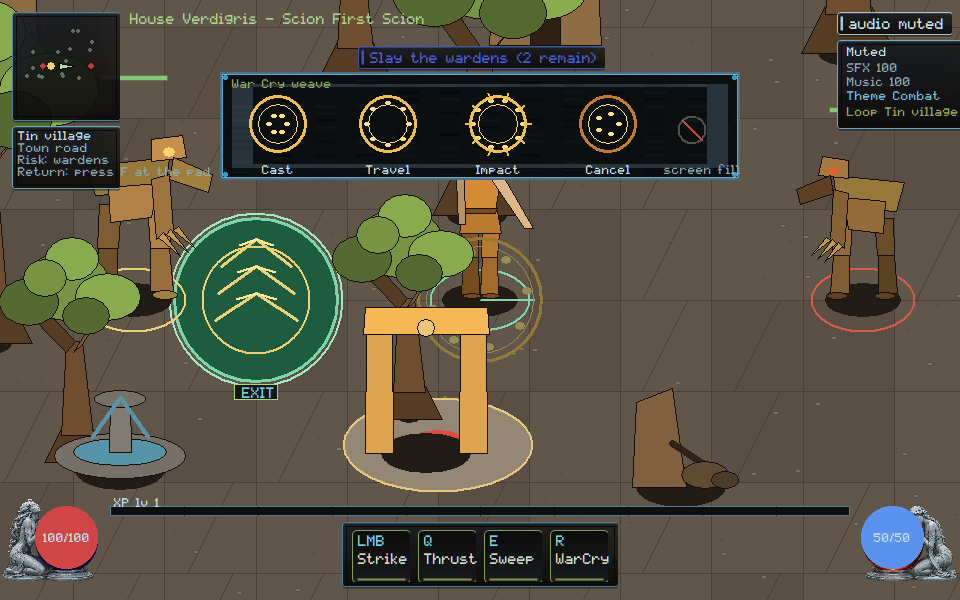
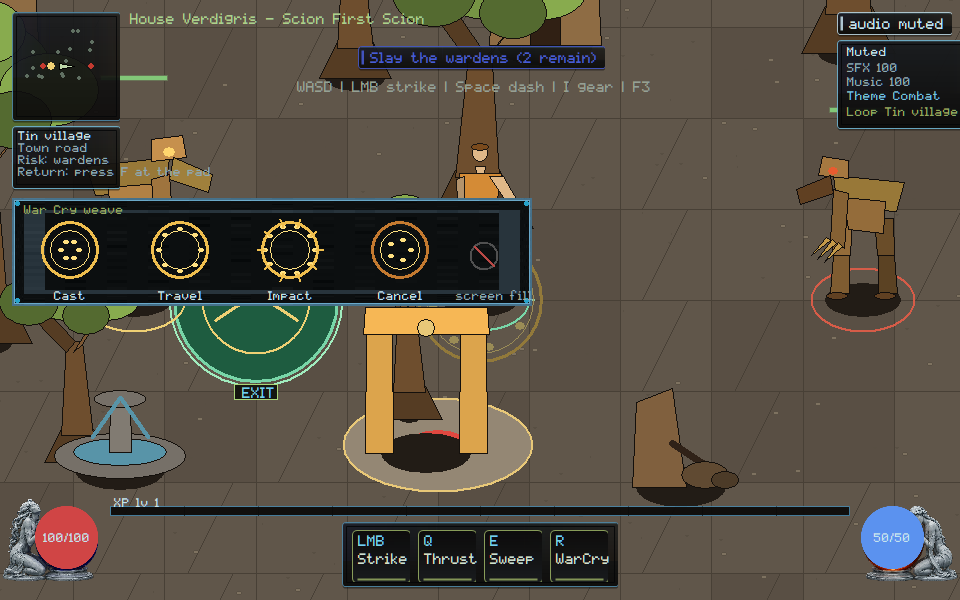
native: park War Cry weave off WASD and Tin village so covering combat HUD cannot certify

Changed region(s): [[0.2188, 0.12, 0.7812, 0.3], [0.0, 0.33, 0.5625, 0.51]]

diff --git a/native/client/main.cpp b/native/client/main.cpp
@@ -6355,14 +6355,21 @@ void paint_attack_pose_strip(ClientState& state, HDC dc, const RECT& bounds,
   SelectObject(dc, old_font);
 }
 
+HudRect park_review_strip(const ClientState& state, int width, int height,
+                          int pane_w, int pane_h);
+
 void paint_weave_review_strip(ClientState& state, HDC dc, const RECT& bounds,
                               render::List& rl) {
   if (!state.weave_review_strip) return;
   const int s = hud_scale(static_cast<int>(bounds.bottom));
   const int pane_w = 520 * s;
   const int pane_h = 108 * s;
-  const int left = (static_cast<int>(bounds.right) - pane_w) / 2;
-  const int top = 72 * s;
+  const HudRect parked =
+      park_review_strip(state, static_cast<int>(bounds.right),
+                        static_cast<int>(bounds.bottom), pane_w, pane_h);
+  const int left = parked.x;
+  const int top = parked.y;
+  state.hud_rect_trace.push_back({"weave-strip", parked});
   RECT pane{left, top, left + pane_w, top + pane_h};
   if (!draw_framekit_nine(state.billboards, dc, state.billboards.fk_panel, pane))
     skin::panel(dc, pane, skin::kVerdigris, 235, 8.0f);
@@ -13926,6 +13933,30 @@ int scenario_weave_vfx() {
                  "weave-vfx: live HUD names War Cry weave and Travel");
   scenario_check(has_hud("weave-strip:fill-rejected"),
                  "weave-vfx: live HUD rejects screen fill");
+  {
+    auto trace_find = [](const ClientState& s,
+                         const char* label) -> const HudRect* {
+      for (const auto& entry : s.hud_rect_trace)
+        if (entry.first == label) return &entry.second;
+      return nullptr;
+    };
+    const HudRect* strip = trace_find(state, "weave-strip");
+    const HudRect* ctrl = trace_find(state, "controls");
+    const HudRect* objective = trace_find(state, "objective");
+    const HudRect* route = trace_find(state, "route-card");
+    const HudRect* life = trace_find(state, "orb-life");
+    const bool covers =
+        (strip && ctrl && hud_rects_overlap(*strip, *ctrl)) ||
+        (strip && objective && hud_rects_overlap(*strip, *objective)) ||
+        (strip && route && hud_rects_overlap(*strip, *route)) ||
+        (strip && life && hud_rects_overlap(*strip, *life));
+    scenario_check(
+        vector_art::weave_strip_covers_hud_fails_review(true),
+        "weave-vfx: covering WASD, the objective, Tin village, or Life is the anti-pattern");
+    scenario_check(
+        !vector_art::weave_strip_covers_hud_fails_review(covers),
+        "weave-vfx: War Cry weave stays off WASD, the objective, Tin village, and Life");
+  }
   return scenario_failures;
 }
 

diff --git a/native/client/vector_art.hpp b/native/client/vector_art.hpp
@@ -229,6 +229,7 @@ inline bool blob_weave_fails_review(bool cast_motes, bool travel_orbit,
 }
 
 inline const char* owner_war_cry_weave_label() { return "War Cry weave"; }
+inline bool weave_strip_covers_hud_fails_review(bool overlap) { return overlap; }
 
 inline void humanoid(HDC dc, int cx, int base_y, int height_px,
                      const Style& style, const Pose& pose, Held held) {

diff --git a/docs/execution/CROSSWALK.md b/docs/execution/CROSSWALK.md
@@ -42,7 +42,7 @@ Cursor evidence notes.
 | VG-UI-007 | extend | TASK-0159 INTEGRATED, 0118 READY, 0207; `hud-pane-readability` at 960/1366/3440 + tree/character keep-out + `hud-scale-floor` + live window; TASK-0159 folder capture cannot certify; clipped C or Esc closes cannot certify; clipped I or Esc closes gear footer cannot certify; clipped DEF/LVL cannot certify; VG-UI-006 Owner Demo not duplicated |
 | VG-UI-008 | new | XInput tick path + glyphs (`pad-path`); not mouse emulation; Pad glyphs stays off WASD/objective/Tin village/Life |
 | VG-ART-001/002/004 | extend | TASK-0141 INTEGRATED — village kit + collision-proxy ops (`kit-chunk`); not artist-local collision; Adult camera / Jointed warden / Uniform pan / Kit lock / Village kit stay off WASD/objective/Tin village/Life |
-| VG-ART-003/006 | extend | TASK-0122 INTEGRATED; 0173/0174 READY; 0186/0187 BRIDGE_PREP — Cursor paints melee **poses** (VG-ART-003) and WarCry **weave labels** plus Phase A spawn/fade (VG-ART-006) without taking TASK-0173 models or re-speccing TASK-0108; Hit flash stays off WASD/objective/Tin village/Life |
+| VG-ART-003/006 | extend | TASK-0122 INTEGRATED; 0173/0174 READY; 0186/0187 BRIDGE_PREP — Cursor paints melee **poses** (VG-ART-003) and WarCry **weave labels** plus Phase A spawn/fade (VG-ART-006) without taking TASK-0173 models or re-speccing TASK-0108; Hit flash / War Cry weave stay off WASD/objective/Tin village/Life |
 | VG-ART-005 | extend | TASK-0182 AUTO_RELEASE, 0184; `held-item` world attachment + `loot-to-bank` pickup-to-equip hold; paper-doll seat alone cannot pass; World hold / Unarmed first stay off WASD, the objective, Tin village, and Life |
 | VG-ART-007/008 | extend | TASK-0206/0205/0207 — Owner Demo, do not duplicate |
 | VG-GPU-001 | new | isolated software quad (`gpu-sample`); not a D3D-only window |
@@ -153,8 +153,10 @@ the spawn capture. Scenario `kit-chunk`. Evidence
 `docs/execution/evidence/VG-ART-004.json`.
 VG-ART-006: WarCry family `vfx-weave:cast|travel|impact|cancel`; radius
 capped vs screen-fill; telegraph remains. Owner strip paints War Cry weave
-/ Travel. Screen fill cannot certify. Scenario `weave-vfx`. Phase A spawn
-beats: owner strip paints Spawn once / Fade ttl; re-spawn cannot certify.
+/ Travel and parks off WASD, the objective, Tin village, and Life.
+Covering those combat surfaces cannot certify. Screen fill cannot
+certify. Scenario `weave-vfx`. Phase A spawn beats: owner strip paints
+Spawn once / Fade ttl; re-spawn cannot certify.
 Scenario `animation-vfx-phase-a` pack capture in art-wave (TASK-0122 folder
 cannot certify). TASK-0173 models stay Kimi. Evidence
 `docs/execution/evidence/VG-ART-006.json`.

diff --git a/docs/execution/CROSSWALK_REGISTRY.md b/docs/execution/CROSSWALK_REGISTRY.md
@@ -132,7 +132,7 @@ not implemented here.
 | VG-ART-003 | G2 | extend | attack-poses; combat-juice Hit flash stays off WASD/objective/Tin village/Life; not TASK-0108 |
 | VG-ART-004 | G2 | extend | kit-chunk Village kit stays off WASD/objective/Tin village/Life; hut, ruin, fountain, gate in spawn capture |
 | VG-ART-005 | G3 | extend | held-item world attachment; loot-to-bank unarmed first; paper-doll seat alone cannot pass; World hold stays off WASD/objective/Tin village/Life |
-| VG-ART-006 | G3 | extend | weave-vfx; animation-vfx-phase-a spawn once; not TASK-0108 |
+| VG-ART-006 | G3 | extend | weave-vfx War Cry weave stays off WASD/objective/Tin village/Life; animation-vfx-phase-a spawn once; not TASK-0108 |
 | VG-ART-007 | G3 | extend | Owner Demo — do not duplicate |
 | VG-ART-008 | G3 | extend | Owner Demo — do not duplicate |
 | VG-UI-001 | G1 | extend | pane-stack native Escape; Stack 2 stays between the two panes; covering either pane cannot certify; absent tree hides seats; invented origin cannot prove; WASD keep-out for tree and character; close hint stays in the sheet slot |

diff --git a/orchestration/CURSOR_KIMI_LANES.md b/orchestration/CURSOR_KIMI_LANES.md
@@ -1175,3 +1175,16 @@ Please move off that branch before taking a new native path.
   remain yours. GOV-002 still unstamped.
   Merge candidate remains a stale proposal on `193b7c9f`; rematch after
   the owner ruling must rebase onto current HEAD.
+
+## Cursor reply (2026-09-06, War Cry weave off WASD and Tin village)
+
+- **Lease:** `main.cpp` still **ACTIVE**. `remote_session.cpp` stays
+  **RELEASED**. Do not re-spec TASK-0108 core/wire (`3b929637`).
+- **Landed this push:** VG-ART-006/007 — War Cry weave parks off WASD,
+  the objective, Tin village, and Life. Covering those cannot certify.
+  Screen fill still rejected. TASK-0173 models stay yours. Captures
+  viewed. Not Owner Demo.
+- **Stay off** `native/client/main.cpp` and `docs/execution/**`. SEC/CORE
+  remain yours. GOV-002 still unstamped.
+  Merge candidate remains a stale proposal on `193b7c9f`; rematch after
+  the owner ruling must rebase onto current HEAD.

diff --git a/docs/rebuild/HANDOFF.md b/docs/rebuild/HANDOFF.md
@@ -1,5 +1,14 @@
 # Native reconstitution handoff
 
+## 2026-09-06 — War Cry weave off WASD and Tin village (Cursor)
+
+- VG-ART-006 / VG-UI-007: War Cry weave / Travel parks off WASD, the
+  objective, Tin village, and Life. Covering those combat surfaces
+  cannot certify. Screen fill still rejected. TASK-0173 models stay
+  Kimi. Owner Demo journeys not duplicated.
+- Scenario `weave-vfx` PASS. Capture viewed. Not Owner Demo. Not
+  TASK-0108.
+
 ## 2026-09-06 — Village kit off WASD and Tin village (Cursor)
 
 - VG-ART-004 / VG-UI-007: Village kit / Solid proxy parks off WASD, the
